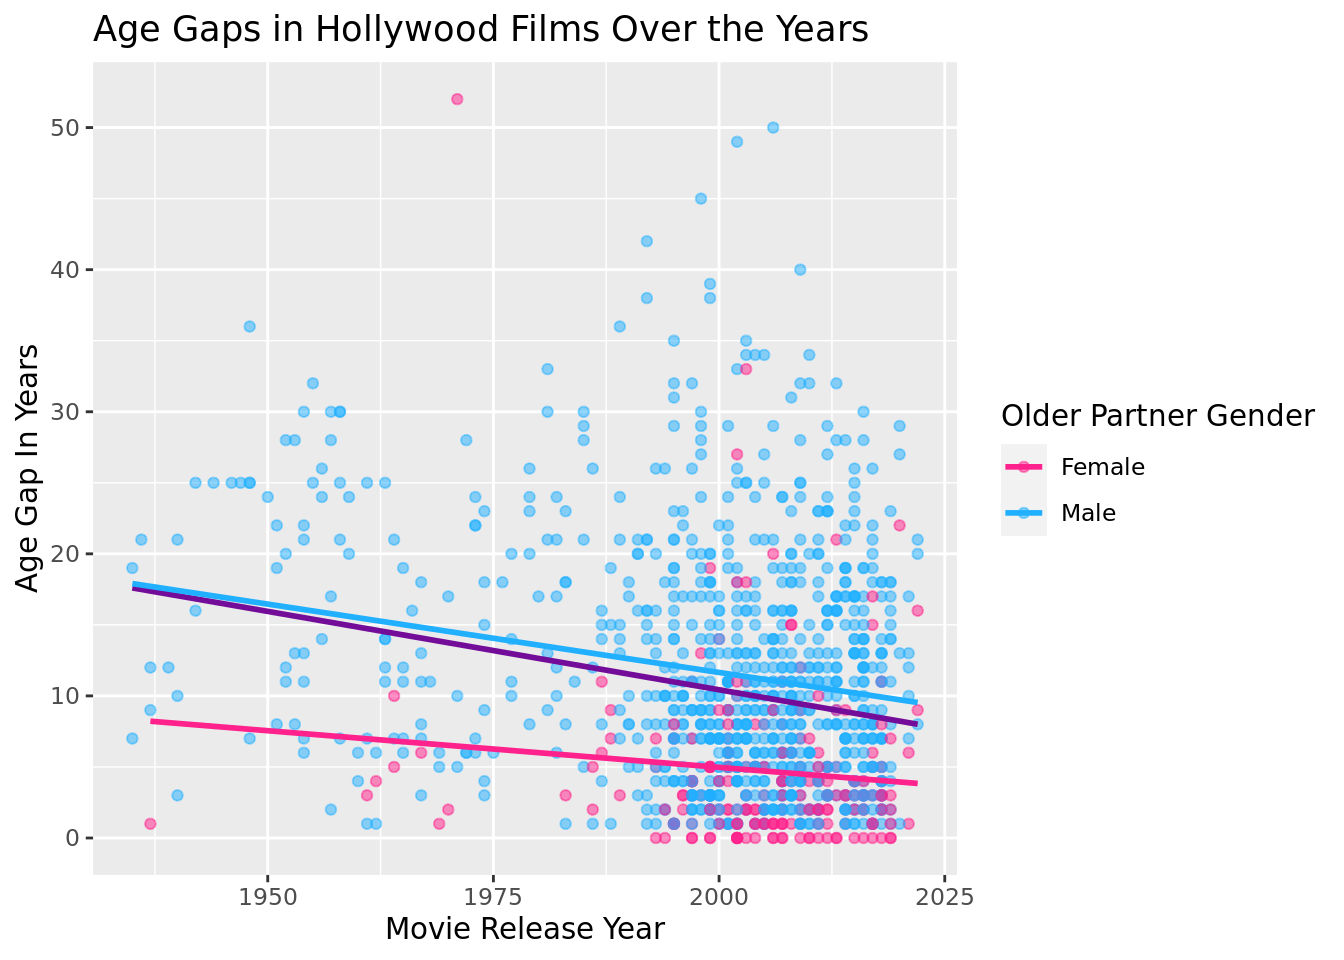
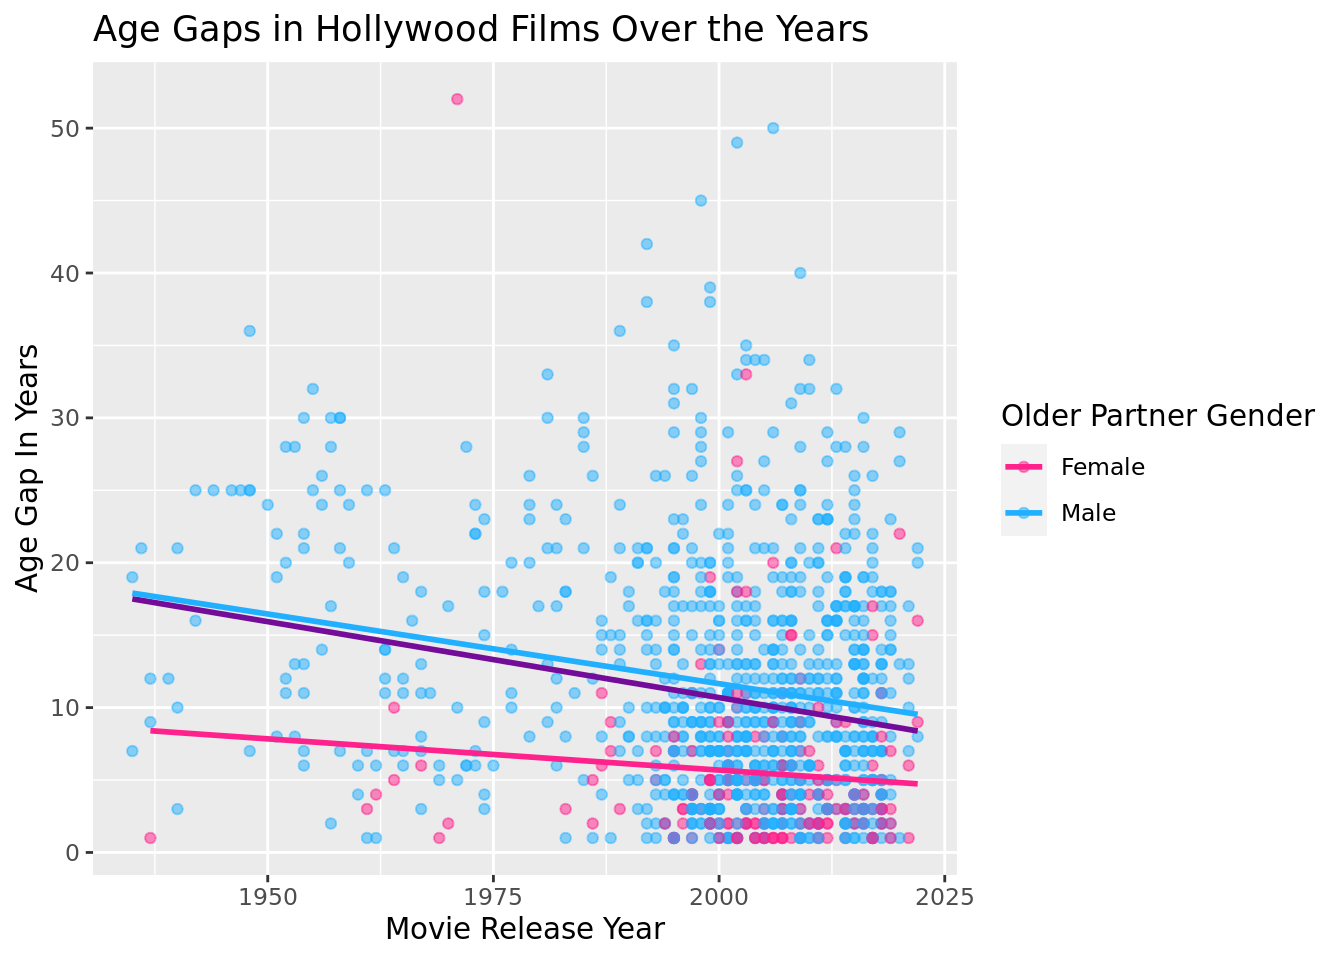
Draft completed!

diff --git a/docs/report.html b/docs/report.html
@@ -170,6 +170,7 @@ code span.wa { color: #60a0b0; font-weight: bold; font-style: italic; } /* Warni
   <li><a href="#research-question" id="toc-research-question" class="nav-link" data-scroll-target="#research-question">Research Question:</a></li>
   <li><a href="#methodology" id="toc-methodology" class="nav-link" data-scroll-target="#methodology">Methodology</a></li>
   <li><a href="#results" id="toc-results" class="nav-link" data-scroll-target="#results">Results</a></li>
+  <li><a href="#conclusion" id="toc-conclusion" class="nav-link" data-scroll-target="#conclusion">Conclusion</a></li>
   </ul>
 </nav>
     </div>
@@ -259,17 +260,17 @@ $ actor_2_age        &lt;int&gt; 23, 24, 20, 23, 38, 17, 22, 30, 19, 39, 23, 20,
 <span id="cb5-4"><a href="#cb5-4" aria-hidden="true" tabindex="-1"></a>  <span class="fu">filter</span>(character_1_gender <span class="sc">!=</span> character_2_gender)</span></code><button title="Copy to Clipboard" class="code-copy-button"><i class="bi"></i></button></pre></div>
 </div>
 <div class="cell">
-<div class="sourceCode cell-code" id="cb6"><pre class="sourceCode r code-with-copy"><code class="sourceCode r"><span id="cb6-1"><a href="#cb6-1" aria-hidden="true" tabindex="-1"></a>Agegaps_updated <span class="ot">&lt;-</span> Agegaps_updated <span class="sc">|&gt;</span></span>
-<span id="cb6-2"><a href="#cb6-2" aria-hidden="true" tabindex="-1"></a>  <span class="fu">mutate</span>(<span class="at">older_partner =</span> <span class="fu">if_else</span>(actor_1_age <span class="sc">&gt;</span> actor_2_age <span class="sc">&amp;</span> </span>
-<span id="cb6-3"><a href="#cb6-3" aria-hidden="true" tabindex="-1"></a>                                   character_1_gender <span class="sc">==</span> <span class="st">"man"</span>, </span>
-<span id="cb6-4"><a href="#cb6-4" aria-hidden="true" tabindex="-1"></a>                                 <span class="st">"Male"</span>, </span>
-<span id="cb6-5"><a href="#cb6-5" aria-hidden="true" tabindex="-1"></a>                                 <span class="st">"Female"</span>))</span>
+<div class="sourceCode cell-code" id="cb6"><pre class="sourceCode r code-with-copy"><code class="sourceCode r"><span id="cb6-1"><a href="#cb6-1" aria-hidden="true" tabindex="-1"></a>onlygaps <span class="ot">&lt;-</span> Agegaps_updated <span class="sc">|&gt;</span></span>
+<span id="cb6-2"><a href="#cb6-2" aria-hidden="true" tabindex="-1"></a>  <span class="fu">filter</span>(age_difference <span class="sc">!=</span> <span class="dv">0</span>) <span class="sc">|&gt;</span></span>
+<span id="cb6-3"><a href="#cb6-3" aria-hidden="true" tabindex="-1"></a>  <span class="fu">mutate</span>(<span class="at">older_partner =</span> <span class="fu">if_else</span>(actor_1_age <span class="sc">&gt;</span> actor_2_age <span class="sc">&amp;</span> </span>
+<span id="cb6-4"><a href="#cb6-4" aria-hidden="true" tabindex="-1"></a>                                   character_1_gender <span class="sc">==</span> <span class="st">"man"</span>, </span>
+<span id="cb6-5"><a href="#cb6-5" aria-hidden="true" tabindex="-1"></a>                                 <span class="st">"Male"</span>, <span class="st">"Female"</span>))</span>
 <span id="cb6-6"><a href="#cb6-6" aria-hidden="true" tabindex="-1"></a></span>
-<span id="cb6-7"><a href="#cb6-7" aria-hidden="true" tabindex="-1"></a>Agegaps_updated <span class="sc">|&gt;</span></span>
+<span id="cb6-7"><a href="#cb6-7" aria-hidden="true" tabindex="-1"></a>onlygaps <span class="sc">|&gt;</span></span>
 <span id="cb6-8"><a href="#cb6-8" aria-hidden="true" tabindex="-1"></a>  <span class="fu">ggplot</span>(<span class="fu">aes</span>(<span class="at">x =</span> release_year, <span class="at">y =</span> age_difference, <span class="at">color =</span> older_partner)) <span class="sc">+</span></span>
 <span id="cb6-9"><a href="#cb6-9" aria-hidden="true" tabindex="-1"></a>  <span class="fu">geom_point</span>(<span class="at">alpha =</span> .<span class="dv">5</span>) <span class="sc">+</span></span>
 <span id="cb6-10"><a href="#cb6-10" aria-hidden="true" tabindex="-1"></a>  <span class="fu">geom_smooth</span>(<span class="at">method =</span> lm, <span class="at">se =</span> <span class="cn">FALSE</span>, <span class="at">color =</span> <span class="st">"#740C9A"</span>) <span class="sc">+</span></span>
-<span id="cb6-11"><a href="#cb6-11" aria-hidden="true" tabindex="-1"></a>  <span class="fu">scale_color_manual</span>(<span class="at">values =</span> <span class="fu">c</span>(<span class="st">"Female"</span> <span class="ot">=</span> <span class="st">"#FF218C"</span>, <span class="st">"Male"</span> <span class="ot">=</span> <span class="st">"#21B0FF"</span>)) <span class="sc">+</span></span>
+<span id="cb6-11"><a href="#cb6-11" aria-hidden="true" tabindex="-1"></a>  <span class="fu">scale_color_manual</span>(<span class="at">values =</span> <span class="fu">c</span>(<span class="st">"Male"</span> <span class="ot">=</span> <span class="st">"#21B0FF"</span>, <span class="st">"Female"</span> <span class="ot">=</span> <span class="st">"#FF218C"</span>)) <span class="sc">+</span></span>
 <span id="cb6-12"><a href="#cb6-12" aria-hidden="true" tabindex="-1"></a>  <span class="fu">geom_smooth</span>(<span class="at">method =</span> lm, <span class="at">se =</span> <span class="cn">FALSE</span>) <span class="sc">+</span></span>
 <span id="cb6-13"><a href="#cb6-13" aria-hidden="true" tabindex="-1"></a>  <span class="fu">labs</span>(<span class="at">title =</span> <span class="st">"Age Gaps in Hollywood Films Over the Years"</span>, </span>
 <span id="cb6-14"><a href="#cb6-14" aria-hidden="true" tabindex="-1"></a>       <span class="at">x =</span> <span class="st">"Movie Release Year"</span>,</span>
@@ -283,7 +284,7 @@ $ actor_2_age        &lt;int&gt; 23, 24, 20, 23, 38, 17, 22, 30, 19, 39, 23, 20,
 <p><img src="report_files/figure-html/age-gap-point-1.png" class="img-fluid" width="672"></p>
 </div>
 </div>
-<p>The scatter plot above shows every movie observation over time, the x-axis plotting the year the film was released and the y-axis plotting the age gap in years. Each point is shaded either pink, if the older partner was female, or blue, if the older partner was male. The graph shows that the older partner in Hollywood movie relationships is disproportionately male, and that in cases where the older partner is female, the age gap tends to be on the smaller side. In addition, the three best fit lines, purple representing all couples regardless of the gender of the older partner, all show that over time the size of these age gaps has decreased.</p>
+<p>The scatter plot above shows every movie observation over time where the couple has an age gap of atleast one year, the x-axis plotting the year the film was released and the y-axis plotting the age gap in years. Each point is shaded either pink, if the older partner was female, or blue, if the older partner was male. The graph shows that the older partner in Hollywood movie relationships is disproportionately male, and that in cases where the older partner is female, the age gap tends to be on the smaller side. In addition, the three best fit lines, purple representing all couples regardless of the gender of the older partner, all show that over time the size of these age gaps has decreased.</p>
 <div class="cell">
 <div class="sourceCode cell-code" id="cb8"><pre class="sourceCode r code-with-copy"><code class="sourceCode r"><span id="cb8-1"><a href="#cb8-1" aria-hidden="true" tabindex="-1"></a>Agegaps_updated <span class="ot">&lt;-</span> Agegaps_updated <span class="sc">|&gt;</span></span>
 <span id="cb8-2"><a href="#cb8-2" aria-hidden="true" tabindex="-1"></a>  <span class="fu">mutate</span>(<span class="at">age_gap_cat =</span> <span class="fu">if_else</span>(age_difference <span class="sc">&lt;=</span> <span class="dv">15</span>, </span>
@@ -356,6 +357,14 @@ $ actor_2_age        &lt;int&gt; 23, 24, 20, 23, 38, 17, 22, 30, 19, 39, 23, 20,
 </div>
 </div>
 <p>The bar chart above simplifies the previous bar chart by combining decades into chunks of 25 years. The plot clearly shows that as over each 25 year period, the proportion of films containing age gaps of over 15 years decreases. From pre-1950, with over 50% of films having large age gaps of over 15 years to 2000-2025 where less than 25% of films contain a couple with an age gap of over 15 years.</p>
+</section>
+<section id="conclusion" class="level3">
+<h3 class="anchored" data-anchor-id="conclusion">Conclusion</h3>
+<ul>
+<li>As the release dates of Hollywood films become more modern, the age difference between actors whose characters are in relationships decreases.</li>
+<li>As films become more modern, the proportion of films with age gaps of over 15 years has decreased consistently.</li>
+<li>It is significantly more common for the older partner in these couples to be male but in cases where the older partner is female, the age gap tends to be less than ten years.</li>
+</ul>
 
 
 </section>
